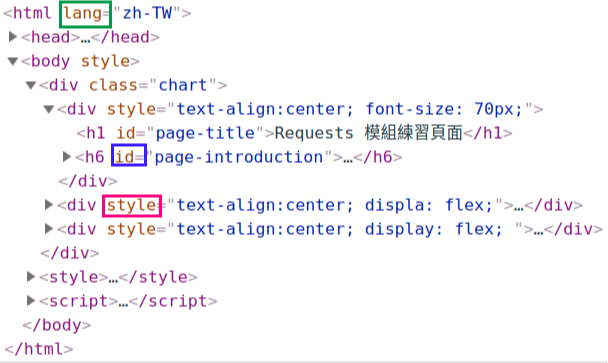
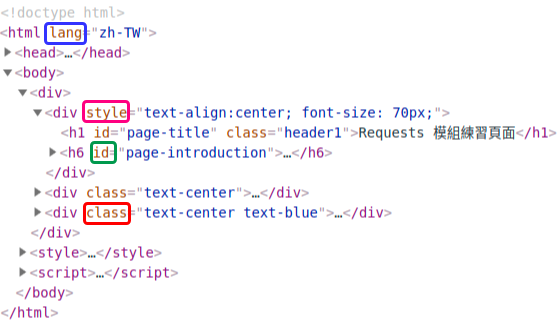
revise webpage

Changed region(s): [[0.0, 0.0, 1.0, 1.0], [0.8515, 0.6173, 1.0, 0.6481]]

diff --git a/index.html b/index.html
@@ -5,26 +5,38 @@
 </head>
 
 <body>
-  <div class="chart">
+  <div>
     <div style="text-align:center; font-size: 70px;">
       <h1 id="page-title" class="header1">Requests 模組練習頁面</h1>
       <h6 id="page-introduction">
-		Lesson07 Python Requests module demo
+		Lesson07 Python Requests 模組 demo
 		<br>
 		<br>
-		<a href="https://hackmd.io/c/ByMeYR1mm/https%3A%2F%2Fdocs.google.com%2Fforms%2Fd%2Fe%2F1FAIpQLSeIYlGHLJoQQyrMkXZ2TIz1tbDMlbdo9b1TeEMumu5V3h4mlg%2Fviewform">X-Village Python Course</a>
+		<a href="https://hackmd.io/c/ByMeYR1mm/https%3A%2F%2Fdocs.google.com%2Fforms%2Fd%2Fe%2F1FAIpQLSeIYlGHLJoQQyrMkXZ2TIz1tbDMlbdo9b1TeEMumu5V3h4mlg%2Fviewform">X-Village Python 課程</a>
       </h6>
     </div>
-    <div style="text-align:center;">
+    <div class="text-center">
 		<input type="button" value="放大燈" onclick="bigger();">
 		<input type="button" value="縮小燈" onclick="smaller();">
 	</div>
-    <div style="text-align:center;">
+    <div class="text-center text-blue">
 		<div id="changed" style="font-size: 14px;">看我被改變</div>
     </div>
   </div>
   
   <style>
+	.text-center {
+		text-align: center;
+	}
+
+	.text-blue {
+		color: blue;
+	}
+
+	.text-blue:hover {
+		color: red;
+	}
+
 	#page-title {
 		margin-top: 80px;
 		margin-bottom: 0px;
